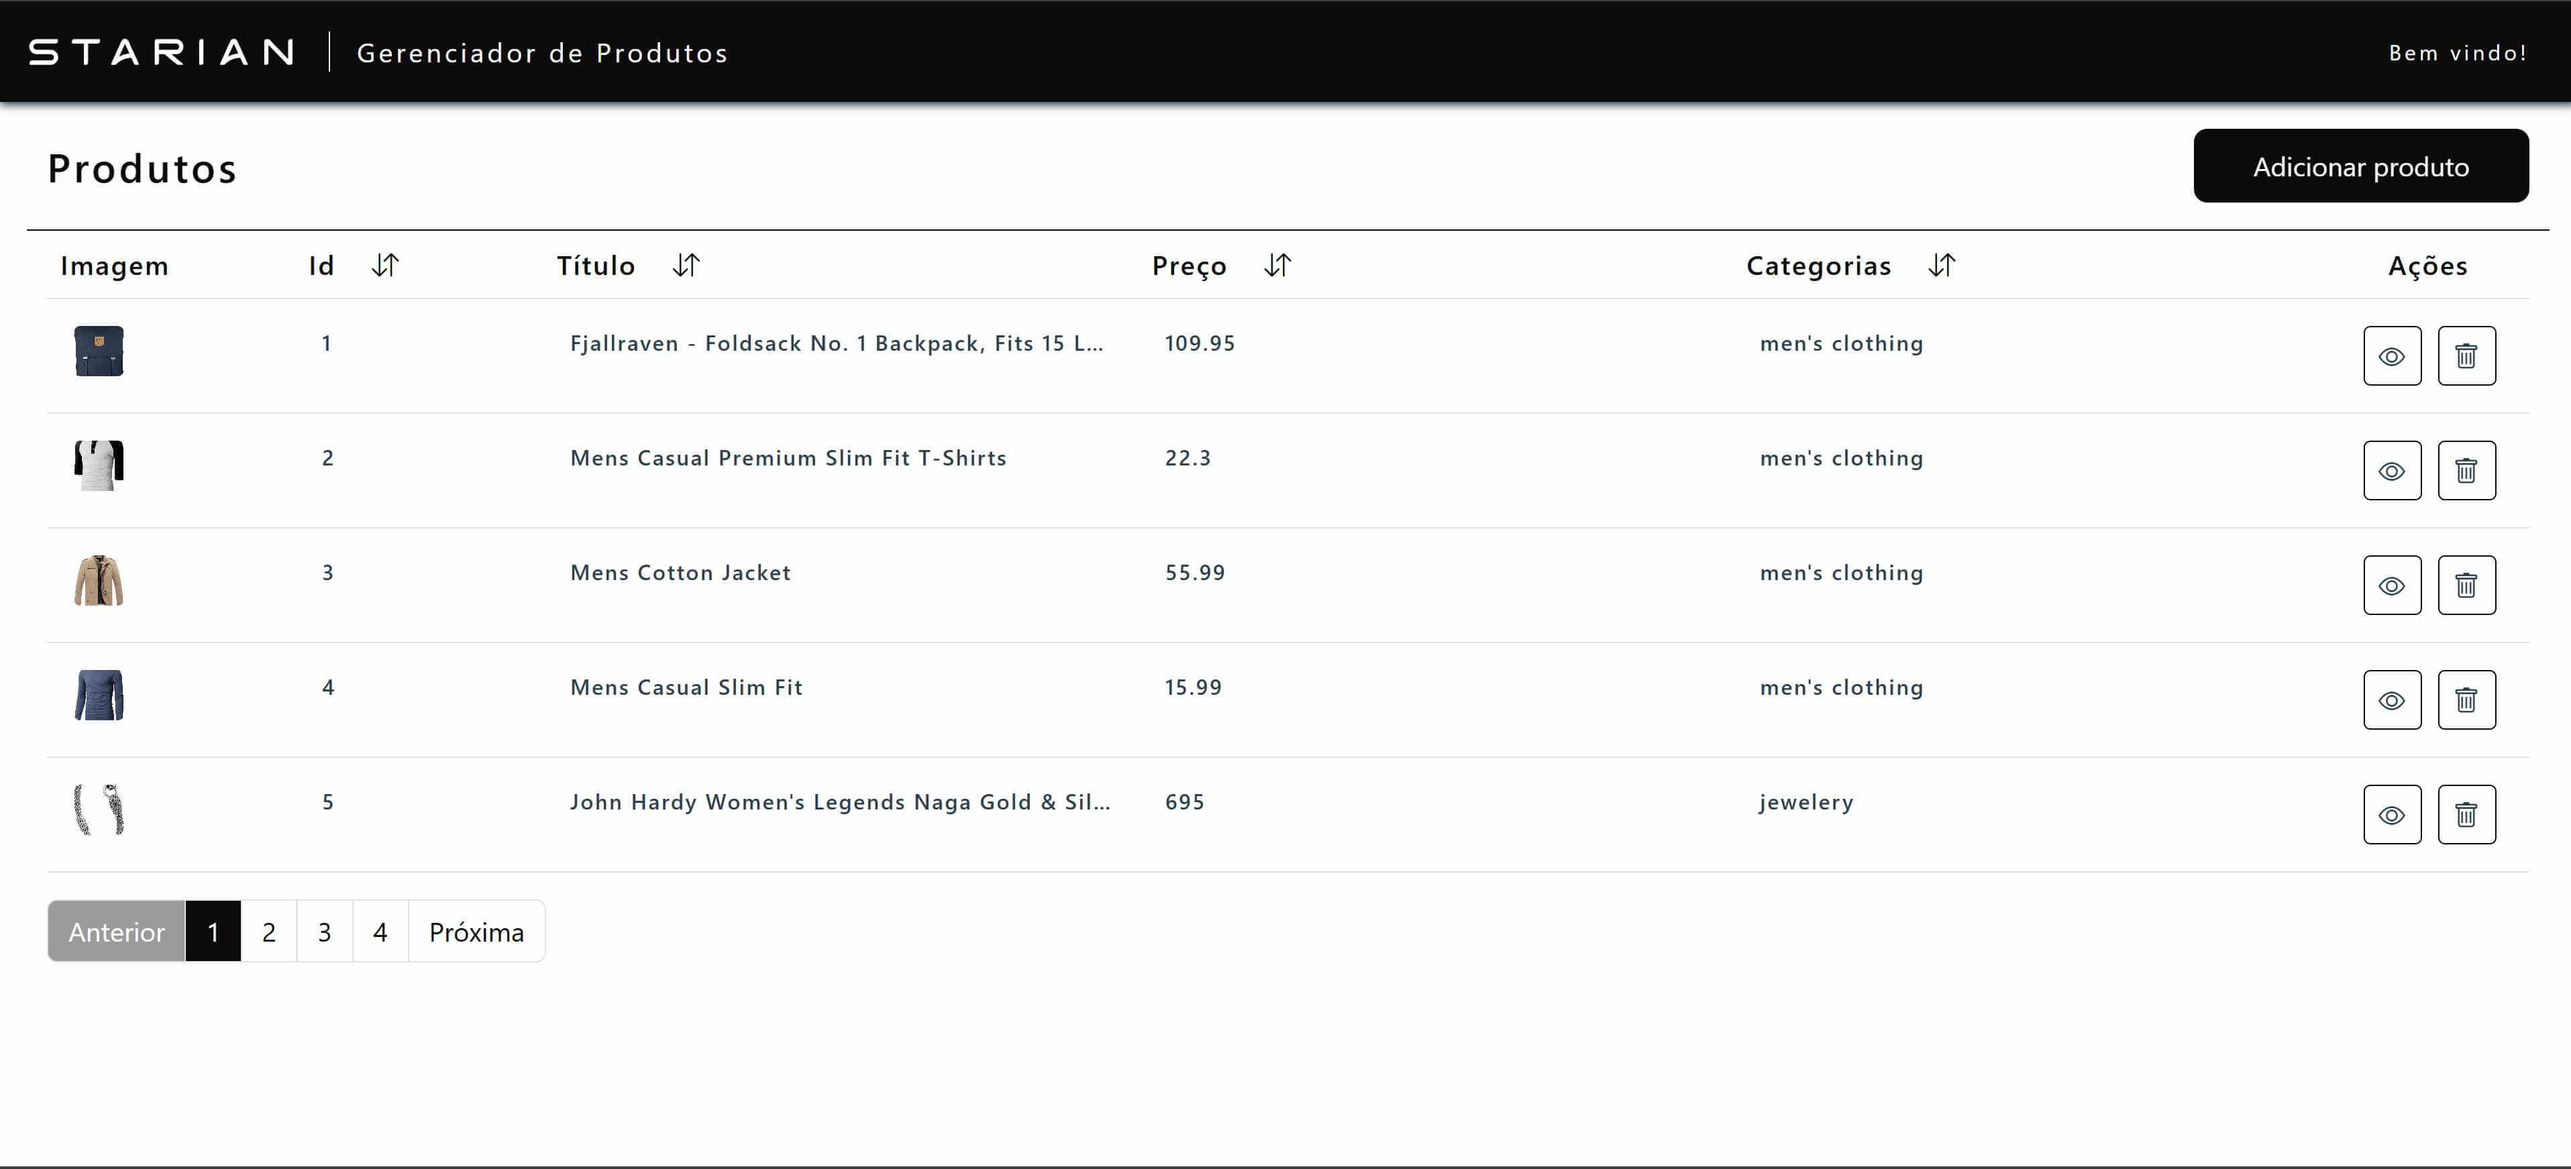
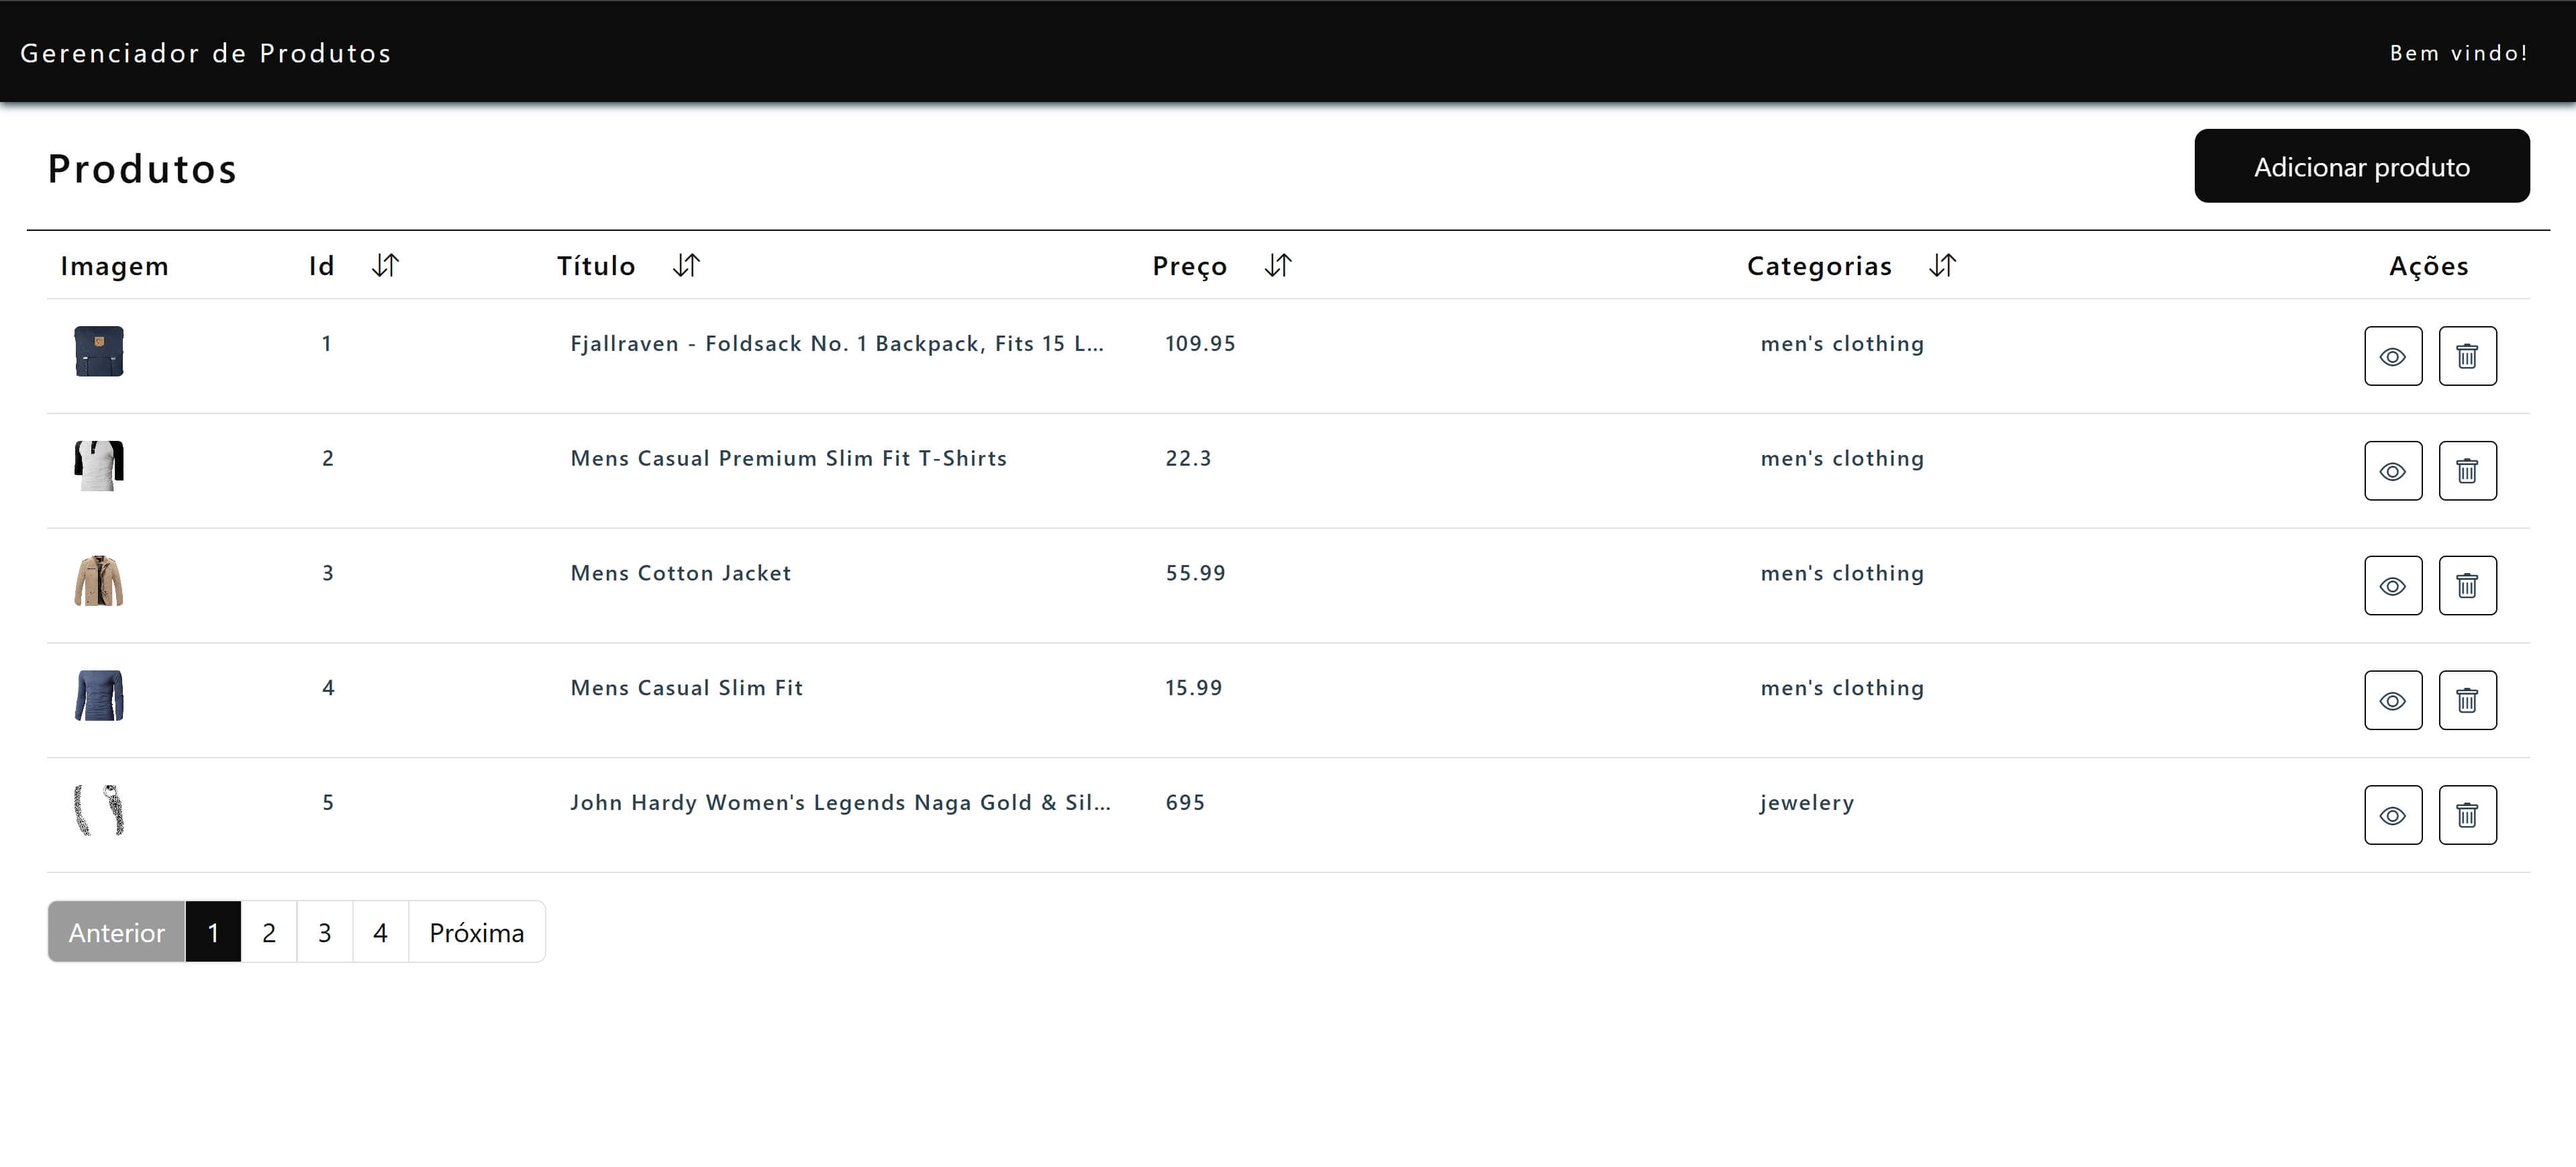
Ajuste

diff --git a/src/app/components/nav/header/header.component.html b/src/app/components/nav/header/header.component.html
@@ -3,7 +3,6 @@
 
   <div class="row justify-content-between main-header">
     <div class="col-sm d-flex justify-content-start align-items-center">
-      <img src="assets/images/starian-logo.svg" alt="app-logo" loading="eager">
       <p class="header-title">
         {{ 'HEADER.TITLE' | translate }}
       </p>

diff --git a/src/app/components/nav/header/header.component.scss b/src/app/components/nav/header/header.component.scss
@@ -6,9 +6,8 @@
 };
 
 .header-title {
-  border-left: 1px solid var(--Bright-White);
-  margin: 0 1rem;
-  padding: 0 1rem;
+  margin: 0;
+  padding: 0;
   color: var(--Bright-White);
   font-size: 1rem;
   letter-spacing: 2px;
